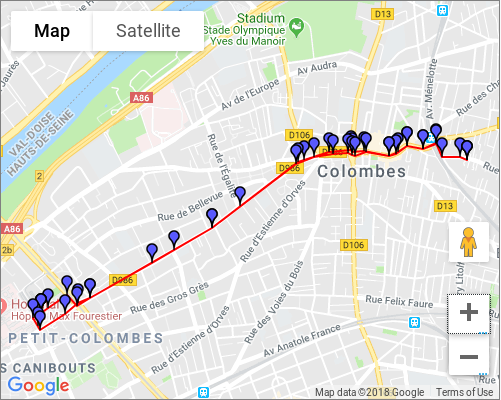
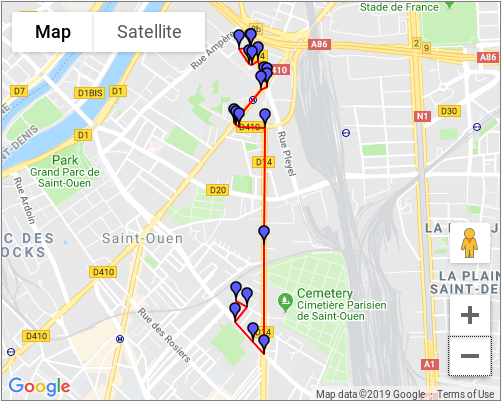
15th of january

diff --git a/_posts/2018-12-11-03-use-of-a-route-search-web-service.md b/_posts/2018-12-11-03-use-of-a-route-search-web-service.md
@@ -36,7 +36,7 @@ Having available GPS recording of the rescue vehicles, you might want to retriev
 Let's take an example with the following sequence of geolocations (longitude, latitude, longitude, latitude, ...):</i> :
 
 ```console
-2.25975,48.923557;2.248389,48.922695;2.235361,48.916889;2.2255,48.91325;2.225833,48.914028;2.225861,48.914001;2.225833,48.914055;2.225861,48.914055;2.226417,48.914333;2.230083,48.91486;2.23725,48.917557;2.242917,48.920029;2.24775,48.922417;2.249278,48.922749;2.252528,48.922916;2.256556,48.923054;2.261778,48.922779;2.262389,48.922638;2.262333,48.922611;2.262361,48.922611;2.262194,48.922585;2.262194,48.922585;2.262194,48.922585;2.262167,48.922585;2.262139,48.922585;2.262167,48.922585;2.262167,48.922554;2.262194,48.922554
+2.341618,48.908885;2.343194,48.905945;2.344167,48.911415;2.341778,48.918194;2.342972,48.922474;2.343090,48.922413
 ```
 
 To retrieve the route corresponding to these GPS positions via the service available, you can use the following code:
@@ -46,9 +46,9 @@ import json
 import requests
 from pprint import pprint
 
-url = 'http://209.97.130.63:5000/trip/v1/driving/'
-url += '2.25975,48.923557;2.248389,48.922695;2.235361,48.916889;2.2255,48.91325;2.225833,48.914028;2.225861,48.914001;2.225833,48.914055;2.225861,48.914055;2.226417,48.914333;2.230083,48.91486;2.23725,48.917557;2.242917,48.920029;2.24775,48.922417;2.249278,48.922749;2.252528,48.922916;2.256556,48.923054;2.261778,48.922779;2.262389,48.922638;2.262333,48.922611;2.262361,48.922611;2.262194,48.922585;2.262194,48.922585;2.262194,48.922585;2.262167,48.922585;2.262139,48.922585;2.262167,48.922585;2.262167,48.922554;2.262194,48.922554'
-url += '?source=first&destination=last'
+url = 'http://209.97.130.63:5000/route/v1/car/'
+url += '2.341618,48.908885;2.343194,48.905945;2.344167,48.911415;2.341778,48.918194;2.342972,48.922474;2.343090,48.922413'
+url += '?alternatives=false&steps=false&geometries=polyline&overview=simplified&annotations=false'
 
 response = requests.get(url)
 json_data = json.loads(response.text)
@@ -60,29 +60,49 @@ The `pprint` module (for pretty print) allows the display of self-indented pytho
 pprint(json_data)
 ```
 ```console
+{
+   "code":"Ok",
+   "routes":[
+      {
+         "geometry":"wkoiHmkhMdAqDbDbE~EoHfCyDee@G{h@W?lMQp@S^wJoM[iB_A@Kp@{ElBj@hBGp@mDdDIuD?W",
+         "legs":[
+            {
+               "steps":[
 
-{'code': 'Ok',
- 'trips': [{'distance': 6372.6,
-            'duration': 632.3,
-            'geometry': 'gkriHmjxLp@zE_@xGhAvCh@vC{@hLHvEMDPxJv@jG`@hDh@jC~M`]rF|M|FjShCtJpK``@p@nE~BfFnDbLe@d@{AvA{@cC??AC?Cs@sBuCiI~BkD}T{x@sDkMgVem@wAgPGuHNiAHg@k@iEl@{KqBwG^yGy@uExCqBBiHFqANg@??????????????????W~ACbIqCjB',
-            'legs': [{'distance': 266.3,
-                      'duration': 24.1,
-                      'steps': [],
-                      'summary': '',
-                      'weight': 24.1},
-                     {'distance': 551.4,
-                      'duration': 50.4,
-                      'steps': [],
-                      ...
+               ],
+               "distance":359.3,
+               "duration":50.2,
+               "summary":"",
+               "weight":50.2
+            },
+            [...]
+         ],
+         "distance":2846.7,
+         "duration":273.6,
+         "weight_name":"routability",
+         "weight":273.6
+      }
+   ],
+   "waypoints":[
+      {
+         "hint":"2-AEgP___39_AAAAfwAAAAkAAAAAAAAAWTypQgAAAAD04LtAAAAAAH8AAAB_AAAACQAAAAAAAAD1BAAAwbsjAPtH6gLyuiMAVUrqAgEArwKra8kH",
+         "distance":68.644532,
+         "name":"Rue des Entrepreneurs",
+         "location":[
+            2.341825,
+            48.908283
+         ]
+      },
+      [...]
 ```
 You can retrieve the geometry of the evaluated route with the following parameters:
 
 ```python
-json_data["trips"][0]["geometry"]
+json_data["routes"][0]["geometry"]
 ```
 Geometry returned:
 ```console
-gkriHmjxLp@zE_@xGhAvCh@vC{@hLHvEMDPxJv@jG`@hDh@jC~M`]rF|M|FjShCtJpK``@p@nE~BfFnDbLe@d@{AvA{@cC??AC?Cs@sBuCiI~BkD}T{x@sDkMgVem@wAgPGuHNiAHg@k@iEl@{KqBwG^yGy@uExCqBBiHFqANg@??????????????????W~ACbIqCjB
+wkoiHmkhMdAqDbDbE~EoHfCyDee@G{h@W?lMQp@S^wJoM[iB_A@Kp@{ElBj@hBGp@mDdDIuD?W
 ```
 
 You can check the received response with the [Google Interactive Polyline Encoder Utility](https://developers.google.com/maps/documentation/utilities/polylineutility). To do this copy / paste the geometry into the <b>Encoded Polyline</b> and click <b>Decode polyline</b>. In my case, I get the exact polyline expected corresponding to transmitted GPS tracks.
